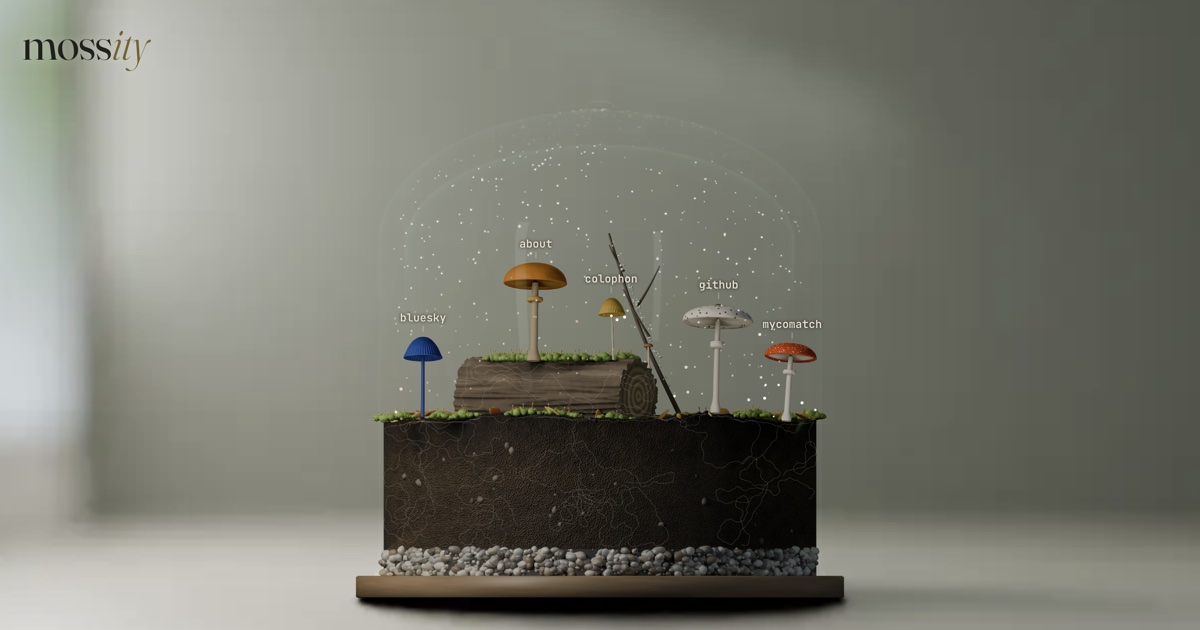
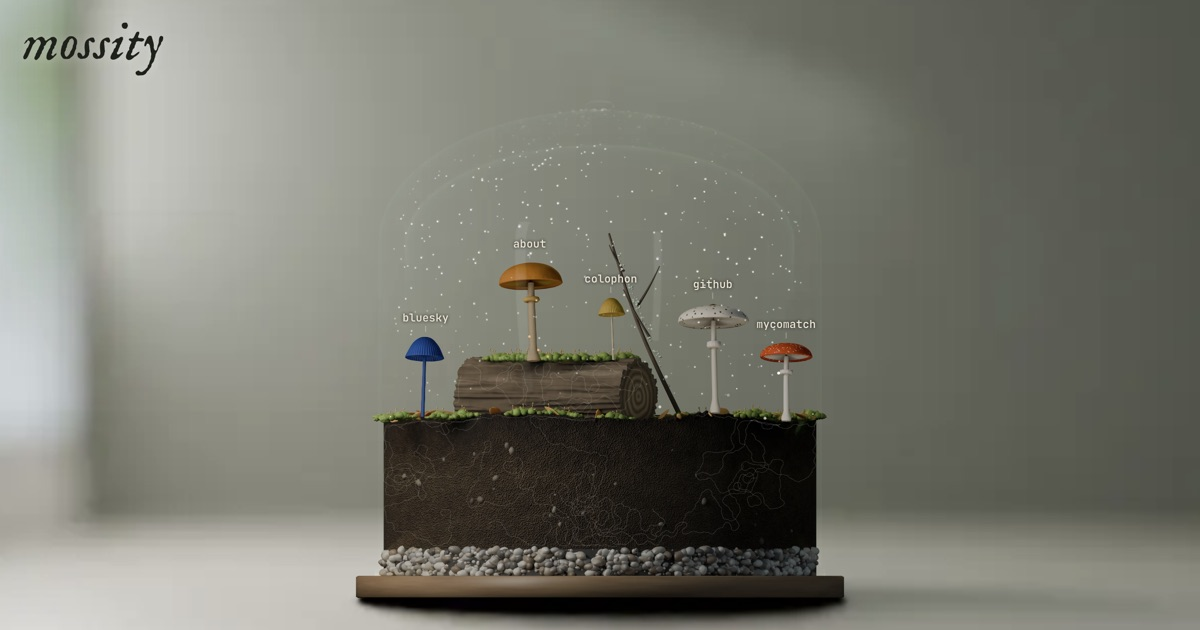
feat: old-book italic wordmark

diff --git a/layouts/index.html b/layouts/index.html
@@ -19,15 +19,14 @@
 <link rel="preload" href="/terrarium/myco.wasm" as="fetch" type="application/wasm" crossorigin>
 <link rel="preconnect" href="https://fonts.googleapis.com">
 <link rel="preconnect" href="https://fonts.gstatic.com" crossorigin>
-<link href="https://fonts.googleapis.com/css2?family=Fraunces:ital,opsz,wght@0,9..144,300..600;1,9..144,300..600&family=JetBrains+Mono:wght@400;500&display=swap" rel="stylesheet">
+<link href="https://fonts.googleapis.com/css2?family=IM+Fell+English:ital@1&family=Fraunces:ital,opsz,wght@0,9..144,300..600;1,9..144,300..600&family=JetBrains+Mono:wght@400;500&display=swap" rel="stylesheet">
 <style>
 :root{--ink:#efe6d2;--dim:rgba(239,230,210,.55);--gold:#cbb88f;--bg:#0b100c}
 *{box-sizing:border-box;margin:0;padding:0}
 html,body{height:100%;background:var(--bg);color:var(--ink);overflow:hidden;font-family:'JetBrains Mono',ui-monospace,monospace;-webkit-font-smoothing:antialiased}
 canvas{position:fixed;inset:0;width:100%;height:100%;display:block;touch-action:manipulation;-webkit-tap-highlight-color:transparent}
 header{color:var(--ink);position:fixed;top:0;left:0;right:0;padding:20px 22px;display:flex;justify-content:space-between;align-items:flex-start;gap:12px;pointer-events:none;z-index:2;text-shadow:0 1px 10px rgba(0,0,0,.5)}
-h1{font-family:'Fraunces',Georgia,serif;font-weight:400;font-size:clamp(30px,5vw,46px);line-height:1;letter-spacing:-.015em;font-variation-settings:'opsz' 144}
-h1 em{font-style:italic;font-weight:300;color:var(--gold)}
+h1{font-family:'IM Fell English',Georgia,serif;font-style:italic;font-weight:400;font-size:clamp(36px,5.6vw,54px);line-height:.9}
 .sub{font-size:11px;color:var(--dim);margin-top:9px;letter-spacing:.03em;line-height:1.5}
 .btn{pointer-events:auto;background:rgba(239,230,210,.05);border:1px solid rgba(239,230,210,.18);color:var(--ink);font:inherit;font-size:11px;padding:7px 12px;border-radius:999px;cursor:pointer;white-space:nowrap}
 .btn:hover{background:rgba(239,230,210,.1)}
@@ -43,7 +42,6 @@ footer{position:fixed;left:0;right:0;bottom:0;padding:12px 22px 14px;display:fle
 /* daylight on the windowsill wall: dark ink instead of cream */
 header,footer{transition:color .4s ease}
 body.day header,body.day footer{--ink:#1c2119;--dim:rgba(28,33,25,.75);text-shadow:0 1px 10px rgba(255,255,255,.3)}
-body.day h1 em{color:#76612e}
 body.day .btn{background:rgba(28,33,25,.06);border-color:rgba(28,33,25,.28)}
 body.day .btn:hover{background:rgba(28,33,25,.12)}
 #keys{position:fixed;inset:0;z-index:1;pointer-events:none}
@@ -58,7 +56,7 @@ body.day .btn:hover{background:rgba(28,33,25,.12)}
 <canvas id="c" aria-hidden="true"></canvas>
 <header>
   <div>
-    <h1>moss<em>ity</em></h1>
+    <h1>mossity</h1>
     <div class="sub">Ben Moss · a small decaying world<br>tap a mushroom, or tap the jar to sow spores</div>
   </div>
   <button class="btn" id="nightBtn" type="button"></button>
